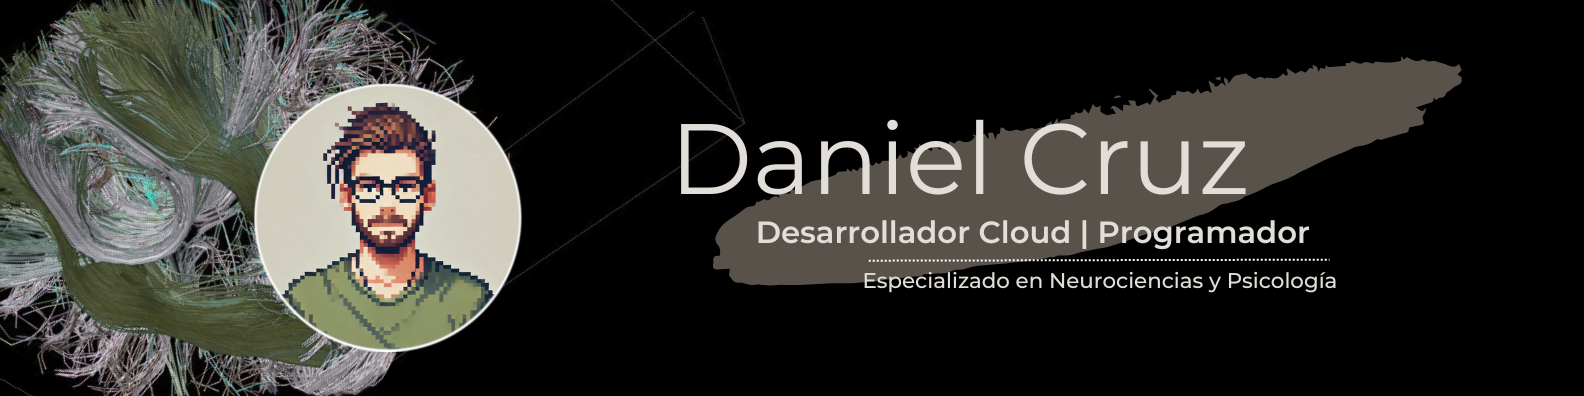
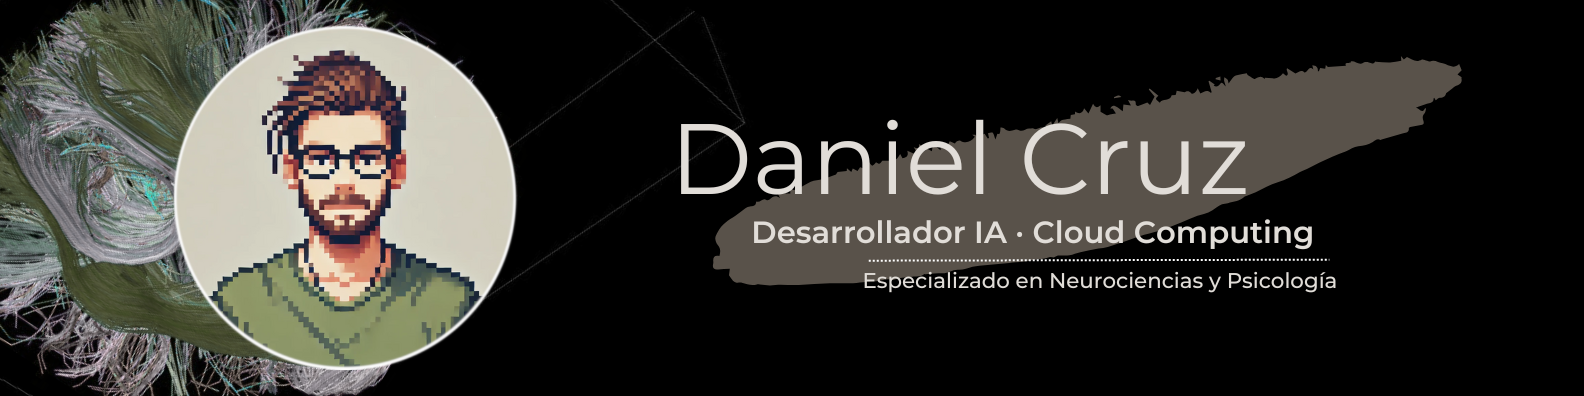
update_banner

Changed region(s): [[0.0928, 0.0606, 0.3403, 0.9394], [0.464, 0.5455, 0.8352, 0.6364]]

diff --git a/README.md b/README.md
@@ -14,14 +14,19 @@ Soy un apasionado de la **mente humana** y del **desarrollo de soluciones**, dos
 ![SQL](https://img.shields.io/badge/sql-%23008080.svg?style=for-the-badge)![MicrosoftSQLServer](https://img.shields.io/badge/Microsoft%20SQL%20Sever-00ADAD?style=for-the-badge&logo=microsoft%20sql%20server&logoColor=white)![MySQL](https://img.shields.io/badge/mysql-%234479a1.svg?style=for-the-badge&logo=mysql&logoColor=white)![SQLite](https://img.shields.io/badge/sqlite-%23003b57.svg?style=for-the-badge&logo=sqlite&logoColor=white)   ![NoSQL](https://img.shields.io/badge/NoSQL-%232E692E.svg?style=for-the-badge)![MongoDB](https://img.shields.io/badge/MongoDB-%2359C256.svg?style=for-the-badge&logo=mongodb&logoColor=white)
 
 ### Analisis de datos
-![Power BI Badge](https://img.shields.io/badge/Power%20BI-%23C2A13D.svg?style=for-the-badge&logo=powerbi&logoColor=white) ![SPSS](https://img.shields.io/badge/spss-%23ee4353.svg?style=for-the-badge&logo=spss&logoColor=white) ![R](https://img.shields.io/badge/r-%23425A7D.svg?style=for-the-badge&logo=r&logoColor=white) ![Pandas](https://img.shields.io/badge/pandas-%23150458.svg?style=for-the-badge&logo=pandas&logoColor=white)
-
+![Power BI Badge](https://img.shields.io/badge/Power%20BI-%23C2A13D.svg?style=for-the-badge&logo=powerbi&logoColor=white) ![SPSS](https://img.shields.io/badge/spss-%23ee4353.svg?style=for-the-badge&logo=spss&logoColor=white) ![R](https://img.shields.io/badge/r-%23425A7D.svg?style=for-the-badge&logo=r&logoColor=white) ![Pandas](https://img.shields.io/badge/pandas-%23150458.svg?style=for-the-badge&logo=pandas&logoColor=white)![Numpy](https://img.shields.io/badge/numpy-%23013243.svg?style=for-the-badge&logo=numpy&logoColor=white)
 
 ### Power Platform
 ![PowerApps](https://img.shields.io/badge/Power%20Apps-%23D5006D.svg?style=for-the-badge&logo=powerapps&logoColor=white) ![Power Automate](https://img.shields.io/badge/Power%20Automate-%230A64A4.svg?style=for-the-badge&logo=powerautomate&logoColor=white)
 
 ### Entornos cloud
 ![Azure](https://img.shields.io/badge/azure-%230072C6.svg?style=for-the-badge&logo=microsoftazure&logoColor=white) 
+
+### Machine Learning
+![Scikit-learn](https://img.shields.io/badge/scikit--learn-%23F7931E.svg?style=for-the-badge&logo=scikit-learn&logoColor=white)
+
+### Deep Learning
+![TensorFlow](https://img.shields.io/badge/TensorFlow-%23FF6F00.svg?style=for-the-badge&logo=tensorflow&logoColor=white) ![Keras](https://img.shields.io/badge/Keras-%23D00000.svg?style=for-the-badge&logo=keras&logoColor=white)
 
 ### Otras herramientas de interés
 ![.Net](https://img.shields.io/badge/.NET-%235C2D91.svg?style=for-the-badge&logo=.net&logoColor=white)![ASP.NET](https://img.shields.io/badge/ASP.NET-%234F3C61.svg?style=for-the-badge&logo=aspnetcore&logoColor=white)![ADO.NET](https://img.shields.io/badge/ADO.NET-%234C2578.svg?style=for-the-badge&logo=adonet&logoColor=white)![EntityFramework](https://img.shields.io/badge/Entity%20Framework-%237B3CC2.svg?style=for-the-badge&logo=ef&logoColor=white)   ![Flask](https://img.shields.io/badge/flask-%23000.svg?style=for-the-badge&logo=flask&logoColor=white)![Django](https://img.shields.io/badge/Django-%23092E20.svg?style=for-the-badge&logo=django&logoColor=white)   
